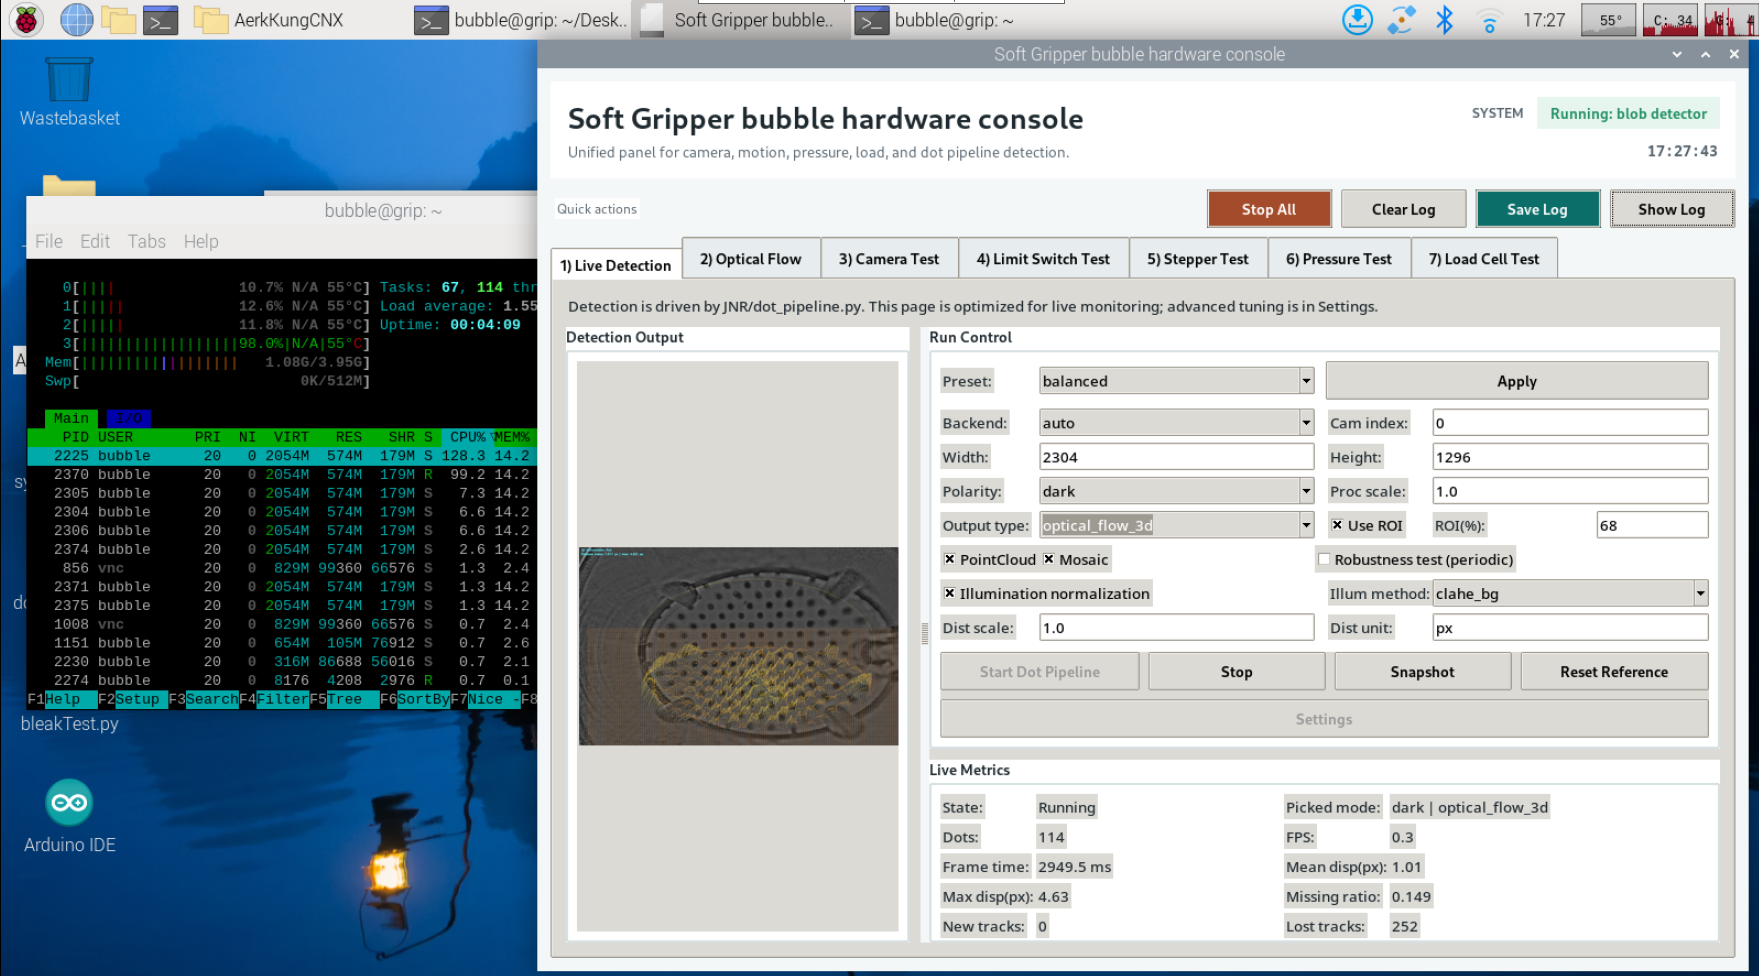
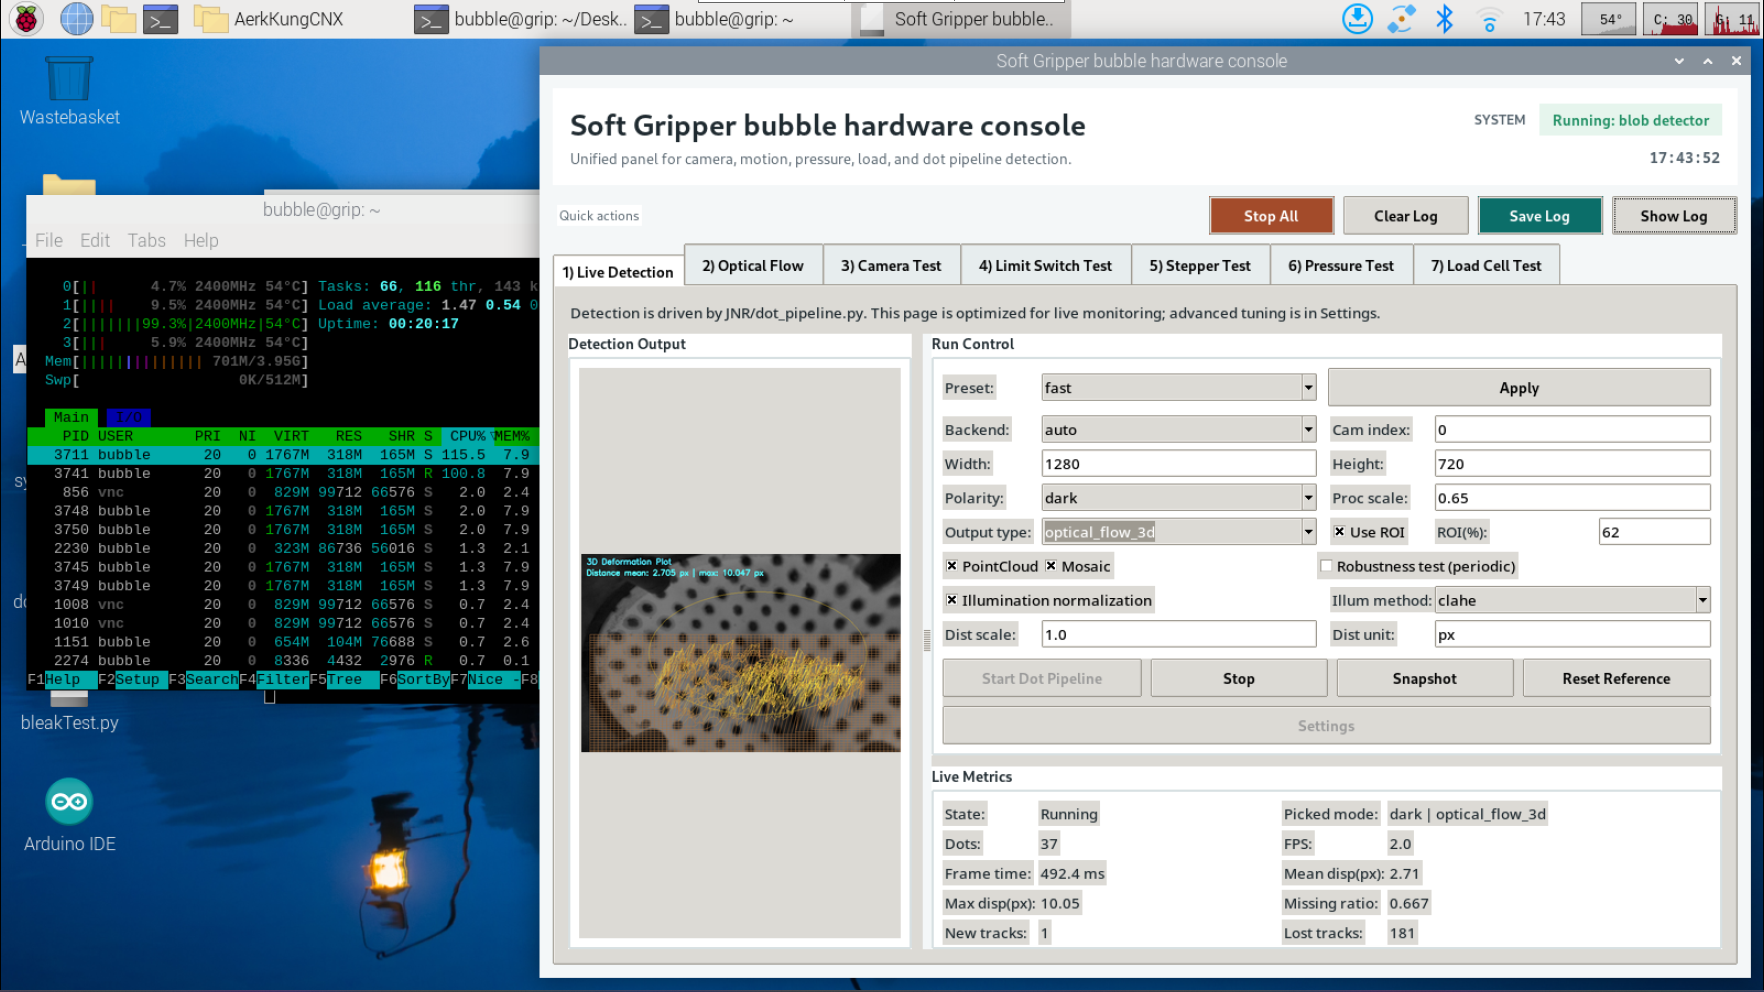
.

diff --git a/all_in_one_gui.py b/all_in_one_gui.py
@@ -941,6 +941,7 @@ class AllInOneTesterGUI:
         self.flow_cam_height_var = tk.StringVar(value="720")
         self.flow_proc_scale_var = tk.StringVar(value="1.0")
         self.flow_roi_scale_var = tk.StringVar(value="0.96")
+        self.flow_3d_roi_scale_var = tk.StringVar(value="0.40")
         self.flow_max_points_var = tk.StringVar(value="260")
         self.flow_quality_var = tk.StringVar(value="0.02")
         self.flow_min_distance_var = tk.StringVar(value="7")
@@ -1561,7 +1562,7 @@ class AllInOneTesterGUI:
 
         dialog = tk.Toplevel(self.root)
         dialog.title("Optical Flow Settings")
-        dialog.geometry("460x420")
+        dialog.geometry("460x460")
         dialog.transient(self.root)
         dialog.grab_set()
 
@@ -1576,6 +1577,7 @@ class AllInOneTesterGUI:
             ("Height", self.flow_cam_height_var),
             ("Proc Scale", self.flow_proc_scale_var),
             ("ROI Scale", self.flow_roi_scale_var),
+            ("3D ROI Scale", self.flow_3d_roi_scale_var),
             ("Max Points", self.flow_max_points_var),
             ("Quality", self.flow_quality_var),
             ("Min Distance", self.flow_min_distance_var),
@@ -1604,6 +1606,7 @@ class AllInOneTesterGUI:
         height = int(self.flow_cam_height_var.get().strip())
         proc_scale = float(self.flow_proc_scale_var.get().strip())
         roi_scale = float(self.flow_roi_scale_var.get().strip())
+        roi_3d_scale = float(self.flow_3d_roi_scale_var.get().strip())
         max_points = int(self.flow_max_points_var.get().strip())
         quality = float(self.flow_quality_var.get().strip())
         min_distance = float(self.flow_min_distance_var.get().strip())
@@ -1617,6 +1620,8 @@ class AllInOneTesterGUI:
             raise ValueError("Flow processing scale must be between 0.2 and 1.0.")
         if not (0.1 <= roi_scale <= 1.0):
             raise ValueError("Flow ROI scale must be between 0.1 and 1.0.")
+        if not (0.1 <= roi_3d_scale <= 1.0):
+            raise ValueError("3D flow ROI scale must be between 0.1 and 1.0.")
         if max_points <= 0:
             raise ValueError("Flow max points must be > 0.")
         if not (0.001 <= quality <= 0.5):
@@ -1633,6 +1638,7 @@ class AllInOneTesterGUI:
             "height": height,
             "proc_scale": proc_scale,
             "roi_scale": roi_scale,
+            "roi_3d_scale": roi_3d_scale,
             "max_points": max_points,
             "quality": quality,
             "min_distance": min_distance,
@@ -2479,6 +2485,11 @@ class AllInOneTesterGUI:
         flow_prev_pts = None
         flow_reseed_counter = 0
         flow_mag_ema = None
+        flow_3d_refresh_counter = 0
+        flow_3d_display_cache = None
+        flow_3d_distance_text_cache = ""
+        flow_3d_mean_cache = None
+        flow_3d_max_cache = None
 
         try:
             pipe = self.blob_module
@@ -2738,85 +2749,144 @@ class AllInOneTesterGUI:
                             flow_prev_pts = None
 
                     if view_type == "optical_flow_3d" and flow_prev_gray is not None:
-                        dense_flow = cv2.calcOpticalFlowFarneback(
-                            flow_prev_gray,
-                            flow_gray,
-                            None,
-                            0.5,
-                            3,
-                            21,
-                            3,
-                            5,
-                            1.2,
-                            cv2.OPTFLOW_FARNEBACK_GAUSSIAN,
-                        )
+                        flow_3d_refresh_counter += 1
+                        refresh_3d = flow_3d_display_cache is None or flow_3d_refresh_counter >= 3
 
-                        dense_dx = dense_flow[..., 0].astype(np.float32)
-                        dense_dy = dense_flow[..., 1].astype(np.float32)
-                        valid_mask = np.ones(flow_gray.shape, dtype=bool)
+                        if refresh_3d:
+                            flow_3d_refresh_counter = 0
 
-                        if flow_roi_mask is not None:
-                            roi_valid = flow_roi_mask > 0
-                            valid_mask &= roi_valid
-                            dense_dx = np.where(roi_valid, dense_dx, 0.0)
-                            dense_dy = np.where(roi_valid, dense_dy, 0.0)
+                            dense_prev_gray = flow_prev_gray
+                            dense_gray = flow_gray
+                            dense_roi_mask = flow_roi_mask
 
-                        # Suppress low-texture regions where dense optical flow is unstable.
-                        gx = cv2.Sobel(flow_gray, cv2.CV_32F, 1, 0, ksize=3)
-                        gy = cv2.Sobel(flow_gray, cv2.CV_32F, 0, 1, ksize=3)
-                        grad_mag = cv2.magnitude(gx, gy)
-                        grad_pool = grad_mag[valid_mask] if np.any(valid_mask) else grad_mag.reshape(-1)
-                        grad_thresh = float(np.percentile(grad_pool, 45.0)) if grad_pool.size > 0 else 0.0
-                        texture_mask = grad_mag >= grad_thresh
-                        valid_mask &= texture_mask
+                            if dense_gray.shape[0] >= 360 or dense_gray.shape[1] >= 640:
+                                dense_prev_gray = cv2.resize(
+                                    flow_prev_gray,
+                                    None,
+                                    fx=0.5,
+                                    fy=0.5,
+                                    interpolation=cv2.INTER_AREA,
+                                )
+                                dense_gray = cv2.resize(
+                                    flow_gray,
+                                    None,
+                                    fx=0.5,
+                                    fy=0.5,
+                                    interpolation=cv2.INTER_AREA,
+                                )
+                                if flow_roi_mask is not None:
+                                    dense_roi_mask = cv2.resize(
+                                        flow_roi_mask,
+                                        (dense_gray.shape[1], dense_gray.shape[0]),
+                                        interpolation=cv2.INTER_NEAREST,
+                                    )
 
-                        if np.any(valid_mask):
-                            # Remove global camera jitter so remaining magnitude better reflects deformation.
-                            global_dx = float(np.median(dense_dx[valid_mask]))
-                            global_dy = float(np.median(dense_dy[valid_mask]))
-                            dense_dx = dense_dx - global_dx
-                            dense_dy = dense_dy - global_dy
+                            dense_roi_scale = float(params.get("roi_3d_scale", params.get("roi_scale", 1.0)))
+                            dense_h, dense_w = dense_gray.shape[:2]
+                            dense_cx = dense_w // 2
+                            dense_cy = dense_h // 2
+                            dense_rx = max(8, int((dense_w * dense_roi_scale) * 0.5))
+                            dense_ry = max(8, int((dense_h * dense_roi_scale) * 0.5))
+                            dense_x0 = max(0, dense_cx - dense_rx)
+                            dense_x1 = min(dense_w, dense_cx + dense_rx)
+                            dense_y0 = max(0, dense_cy - dense_ry)
+                            dense_y1 = min(dense_h, dense_cy + dense_ry)
 
-                        dense_mag = cv2.magnitude(dense_dx, dense_dy)
-                        dense_mag = np.where(valid_mask, dense_mag, 0.0)
+                            dense_prev_gray = dense_prev_gray[dense_y0:dense_y1, dense_x0:dense_x1]
+                            dense_gray = dense_gray[dense_y0:dense_y1, dense_x0:dense_x1]
+                            if dense_roi_mask is not None:
+                                dense_roi_mask = dense_roi_mask[dense_y0:dense_y1, dense_x0:dense_x1]
 
-                        valid_mag = dense_mag[valid_mask] if np.any(valid_mask) else dense_mag.reshape(-1)
-                        if valid_mag.size > 0:
-                            clip_hi = float(np.percentile(valid_mag, 98.0))
-                            if clip_hi > 0:
-                                dense_mag = np.clip(dense_mag, 0.0, clip_hi)
+                            dense_flow = cv2.calcOpticalFlowFarneback(
+                                dense_prev_gray,
+                                dense_gray,
+                                None,
+                                0.5,
+                                2,
+                                15,
+                                2,
+                                5,
+                                1.1,
+                                cv2.OPTFLOW_FARNEBACK_GAUSSIAN,
+                            )
 
-                        dense_mag = cv2.GaussianBlur(dense_mag, (0, 0), sigmaX=1.4, sigmaY=1.4)
+                            dense_dx = dense_flow[..., 0].astype(np.float32)
+                            dense_dy = dense_flow[..., 1].astype(np.float32)
+                            valid_mask = np.ones(dense_gray.shape, dtype=bool)
 
-                        if flow_mag_ema is None or flow_mag_ema.shape != dense_mag.shape:
-                            flow_mag_ema = dense_mag
-                        else:
-                            flow_mag_ema = cv2.addWeighted(flow_mag_ema, 0.80, dense_mag, 0.20, 0.0)
+                            if dense_roi_mask is not None:
+                                roi_valid = dense_roi_mask > 0
+                                valid_mask &= roi_valid
+                                dense_dx = np.where(roi_valid, dense_dx, 0.0)
+                                dense_dy = np.where(roi_valid, dense_dy, 0.0)
 
-                        display_bgr = self._build_flow_3d_plot(flow_gray, flow_mag_ema, cv2, roi_mask=flow_roi_mask)
+                            # Suppress low-texture regions where dense optical flow is unstable.
+                            gx = cv2.Sobel(dense_gray, cv2.CV_32F, 1, 0, ksize=3)
+                            gy = cv2.Sobel(dense_gray, cv2.CV_32F, 0, 1, ksize=3)
+                            grad_mag = cv2.magnitude(gx, gy)
+                            grad_pool = grad_mag[valid_mask] if np.any(valid_mask) else grad_mag.reshape(-1)
+                            grad_thresh = float(np.percentile(grad_pool, 45.0)) if grad_pool.size > 0 else 0.0
+                            texture_mask = grad_mag >= grad_thresh
+                            valid_mask &= texture_mask
 
-                        scale = float(params.get("distance_scale", 1.0))
-                        unit = str(params.get("distance_unit", "px"))
-                        ema_valid_mag = flow_mag_ema[valid_mask] if np.any(valid_mask) else flow_mag_ema.reshape(-1)
-                        if ema_valid_mag.size > 0:
-                            flow_distance_mean = float(np.mean(ema_valid_mag)) * scale
-                            flow_distance_max = float(np.max(ema_valid_mag)) * scale
-                        else:
-                            flow_distance_mean = 0.0
-                            flow_distance_max = 0.0
-                        distance_text = (
-                            f"Distance mean: {flow_distance_mean:.3f} {unit} | "
-                            f"max: {flow_distance_max:.3f} {unit}"
-                        )
-                        cv2.putText(
-                            display_bgr,
-                            distance_text,
-                            (12, 50),
-                            cv2.FONT_HERSHEY_SIMPLEX,
-                            0.60,
-                            (250, 245, 85),
-                            2,
-                        )
+                            if np.any(valid_mask):
+                                # Remove global camera jitter so remaining magnitude better reflects deformation.
+                                global_dx = float(np.median(dense_dx[valid_mask]))
+                                global_dy = float(np.median(dense_dy[valid_mask]))
+                                dense_dx = dense_dx - global_dx
+                                dense_dy = dense_dy - global_dy
+
+                            dense_mag = cv2.magnitude(dense_dx, dense_dy)
+                            dense_mag = np.where(valid_mask, dense_mag, 0.0)
+
+                            valid_mag = dense_mag[valid_mask] if np.any(valid_mask) else dense_mag.reshape(-1)
+                            if valid_mag.size > 0:
+                                clip_hi = float(np.percentile(valid_mag, 98.0))
+                                if clip_hi > 0:
+                                    dense_mag = np.clip(dense_mag, 0.0, clip_hi)
+
+                            dense_mag = cv2.GaussianBlur(dense_mag, (0, 0), sigmaX=1.4, sigmaY=1.4)
+
+                            if flow_mag_ema is None or flow_mag_ema.shape != dense_mag.shape:
+                                flow_mag_ema = dense_mag
+                            else:
+                                flow_mag_ema = cv2.addWeighted(flow_mag_ema, 0.80, dense_mag, 0.20, 0.0)
+
+                            display_bgr = self._build_flow_3d_plot(dense_gray, flow_mag_ema, cv2, roi_mask=dense_roi_mask)
+
+                            scale = float(params.get("distance_scale", 1.0))
+                            unit = str(params.get("distance_unit", "px"))
+                            ema_valid_mag = flow_mag_ema[valid_mask] if np.any(valid_mask) else flow_mag_ema.reshape(-1)
+                            if ema_valid_mag.size > 0:
+                                flow_distance_mean = float(np.mean(ema_valid_mag)) * scale
+                                flow_distance_max = float(np.max(ema_valid_mag)) * scale
+                            else:
+                                flow_distance_mean = 0.0
+                                flow_distance_max = 0.0
+                            distance_text = (
+                                f"Distance mean: {flow_distance_mean:.3f} {unit} | "
+                                f"max: {flow_distance_max:.3f} {unit}"
+                            )
+                            cv2.putText(
+                                display_bgr,
+                                distance_text,
+                                (12, 50),
+                                cv2.FONT_HERSHEY_SIMPLEX,
+                                0.60,
+                                (250, 245, 85),
+                                2,
+                            )
+                            flow_3d_display_cache = display_bgr
+                            flow_3d_distance_text_cache = distance_text
+                            flow_3d_mean_cache = flow_distance_mean
+                            flow_3d_max_cache = flow_distance_max
+
+                        display_bgr = flow_3d_display_cache
+                        distance_text = flow_3d_distance_text_cache
+                        flow_distance_mean = flow_3d_mean_cache
+                        flow_distance_max = flow_3d_max_cache
+                        if display_bgr is None:
+                            display_bgr = cv2.cvtColor(flow_gray, cv2.COLOR_GRAY2BGR)
 
                     flow_prev_gray = flow_gray
                 elif display_mode == "mosaic":
